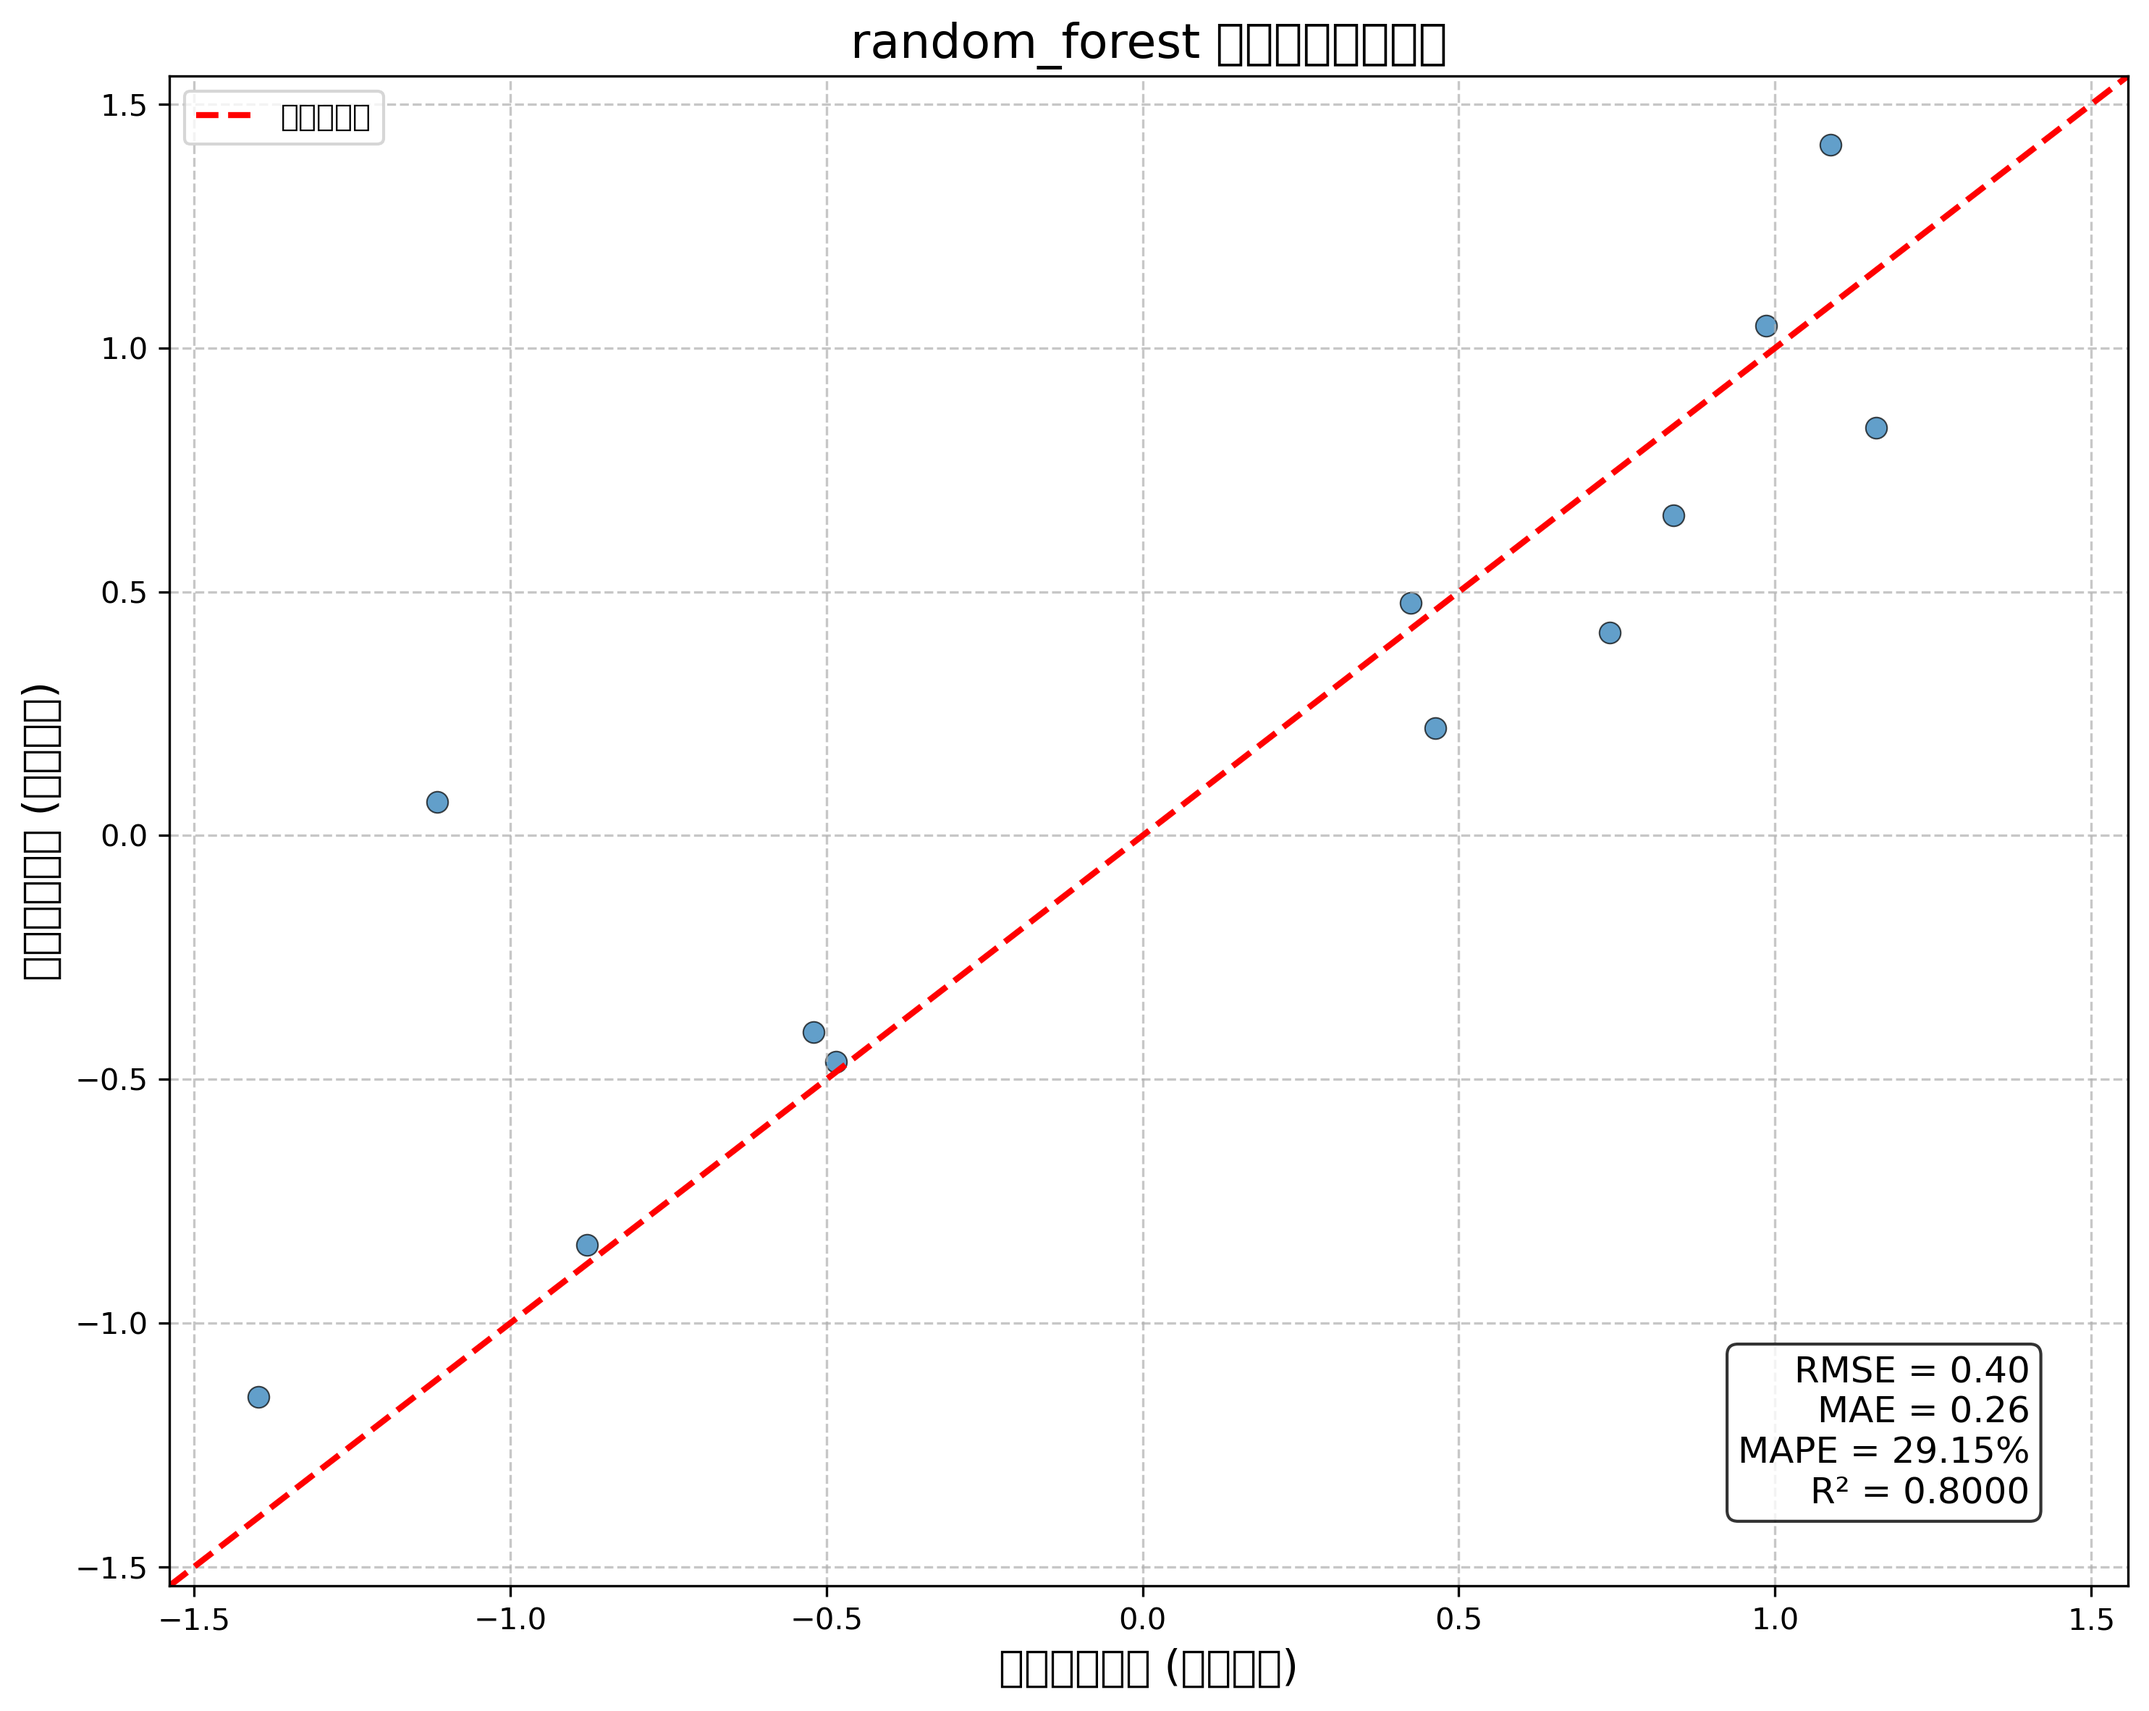
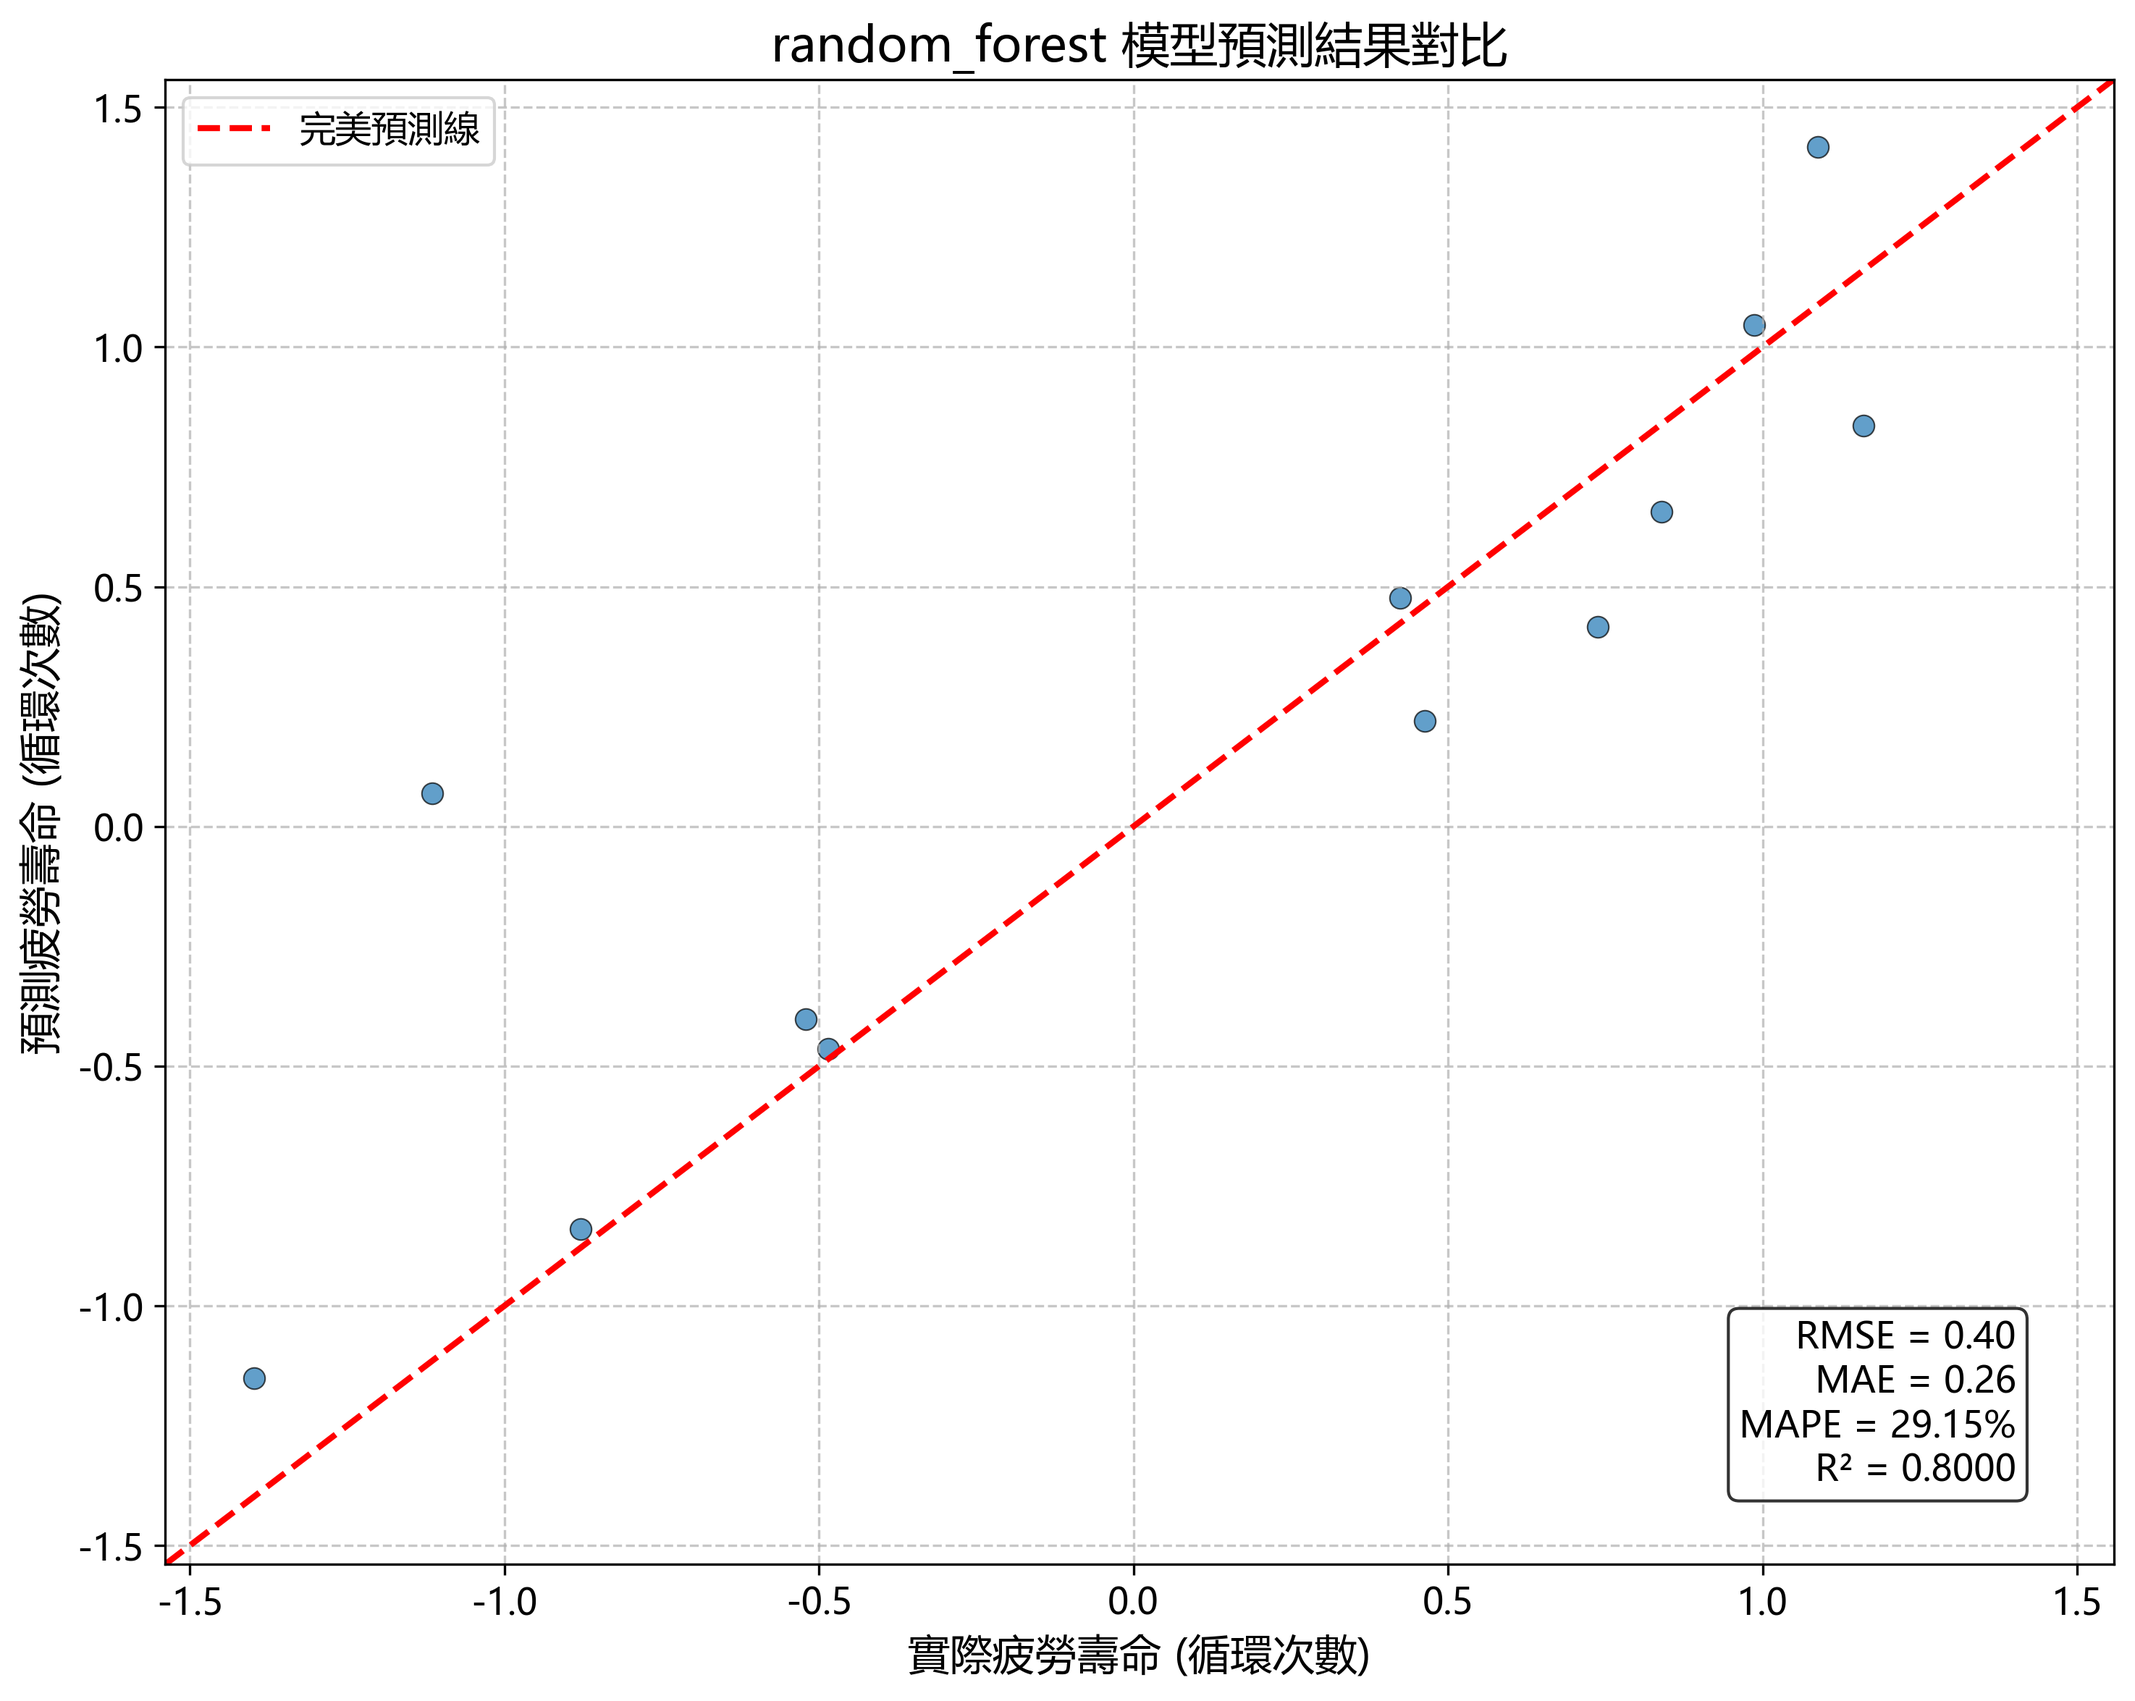
first commit

diff --git a/predict.py b/predict.py
@@ -21,6 +21,7 @@ sys.path.append(os.path.dirname(os.path.dirname(os.path.abspath(__file__))))
 # 導入所需模組
 from src.model import FatigueLifePredictor
 from src.data_processing import DataProcessor
+from src.feature_engineering import FeatureEngineer
 from src.utils import ensure_dir, setup_logger
 
 def parse_args():
@@ -44,6 +45,65 @@ def parse_args():
                       help='目標變數列名，僅當 has_target=True 時有效 (默認: "Nf_pred (cycles)")')
     
     return parser.parse_args()
+
+def engineer_features(data, target_column=None):
+    """
+    為預測數據進行特徵工程處理
+    
+    參數:
+        data (pandas.DataFrame): 原始數據
+        target_column (str, optional): 目標變數列名，如果有的話
+        
+    返回:
+        pandas.DataFrame: 特徵工程處理後的數據
+    """
+    # 從原始特徵創建所需的派生特徵
+    df = data.copy()
+    
+    # 如果有目標列，暫時移除它
+    target_data = None
+    if target_column and target_column in df.columns:
+        target_data = df[target_column].copy()
+        df = df.drop(target_column, axis=1)
+    
+    # 1. 創建幾何比例特徵
+    if all(col in df.columns for col in ['Die', 'PCB']):
+        df['die_pcb_ratio'] = df['Die'] / df['PCB']
+    
+    if all(col in df.columns for col in ['stud', 'mold']):
+        df['stud_mold_ratio'] = df['stud'] / df['mold']
+    
+    # 2. 添加其他必要的比例特徵
+    if all(col in df.columns for col in ['Die', 'mold']):
+        df['die_mold_ratio'] = df['Die'] / df['mold']
+    
+    # 3. 添加翹曲相關特徵
+    if all(col in df.columns for col in ['Total_warpage', 'Unit_warpage']):
+        df['warpage_ratio'] = df['Total_warpage'] / df['Unit_warpage']
+    
+    # 4. 添加應力應變相關特徵
+    stress_cols = [col for col in df.columns if 'NLPLWK' in col]
+    strain_cols = [col for col in df.columns if 'Strain' in col]
+    
+    if stress_cols and strain_cols:
+        # 添加應力應變比
+        for stress_col in stress_cols[:1]:  # 只使用第一個應力列
+            for strain_col in strain_cols[:1]:  # 只使用第一個應變列
+                df['stress_strain_ratio'] = df[stress_col] / df[strain_col].replace(0, np.nan)
+    
+    # 5. 添加應力平均值特徵
+    if stress_cols:
+        df['avg_stress'] = df[stress_cols].mean(axis=1)
+    
+    # 6. 添加應變相關特徵
+    if 'Acc_Equi_Strain_max' in df.columns and 'Die' in df.columns:
+        df['damage_factor'] = df['Acc_Equi_Strain_max'] * df['Die']
+    
+    # 如果有目標列，添加回去
+    if target_data is not None:
+        df[target_column] = target_data
+    
+    return df
 
 def main():
     """主函數"""
@@ -77,6 +137,38 @@ def main():
         processor = DataProcessor()
         data = processor.load_data(args.data_path)
         logger.info(f"數據載入成功，形狀: {data.shape}")
+        
+        # 進行特徵工程處理
+        logger.info("進行特徵工程處理...")
+        try:
+            # 使用自定義函數進行特徵工程
+            data = engineer_features(data, args.target_column if args.has_target else None)
+            logger.info(f"特徵工程完成，處理後特徵數量: {data.shape[1]}")
+            
+            # 如果上述方法不夠，可以嘗試使用FeatureEngineer
+            if not all(feature in data.columns for feature in predictor.feature_names):
+                logger.info("基本特徵工程不足，嘗試使用FeatureEngineer...")
+                engineer = FeatureEngineer()
+                
+                # 如果數據中包含目標變數，暫時保留它
+                if args.has_target and args.target_column in data.columns:
+                    target_data = data[args.target_column].copy()
+                    data_no_target = data.drop(args.target_column, axis=1)
+                    
+                    # 應用特徵工程
+                    engineered_data = engineer.create_material_features(data_no_target)
+                    
+                    # 恢復目標變數
+                    engineered_data[args.target_column] = target_data
+                else:
+                    # 如果沒有目標變數，直接進行特徵工程
+                    engineered_data = engineer.create_material_features(data)
+                
+                data = engineered_data
+                logger.info(f"FeatureEngineer處理完成，處理後特徵數量: {data.shape[1]}")
+        except Exception as e:
+            logger.warning(f"進行特徵工程時遇到問題: {str(e)}")
+            logger.warning("將嘗試使用原始數據進行預測")
         
         # 檢查特徵是否完整
         required_features = predictor.feature_names

diff --git a/src/evaluation.py b/src/evaluation.py
@@ -27,7 +27,27 @@ import logging
 import json
 from datetime import datetime
 import pickle
+# 設置中文字體支持
+import matplotlib as mpl
+import platform
 
+# 根據不同操作系統設置不同的字體
+system = platform.system()
+if system == 'Windows':
+    # Windows系統使用微軟雅黑或新細明體
+    mpl.rcParams['font.sans-serif'] = ['Microsoft YaHei', 'SimHei', 'NSimSun', 'Arial Unicode MS']
+elif system == 'Darwin':  # macOS
+    # macOS使用蘋方或儷黑Pro
+    mpl.rcParams['font.sans-serif'] = ['PingFang TC', 'Heiti TC', 'STHeiti', 'Arial Unicode MS']
+else:  # Linux/其他
+    # Linux使用文泉驛或思源黑體
+    mpl.rcParams['font.sans-serif'] = ['WenQuanYi Zen Hei', 'Noto Sans CJK TC', 'Noto Sans TC', 'Arial Unicode MS']
+
+# 確保負號正確顯示
+mpl.rcParams['axes.unicode_minus'] = False
+
+# 設置全局字體大小
+mpl.rcParams['font.size'] = 12
 # 配置日誌
 logging.basicConfig(
     level=logging.INFO,
